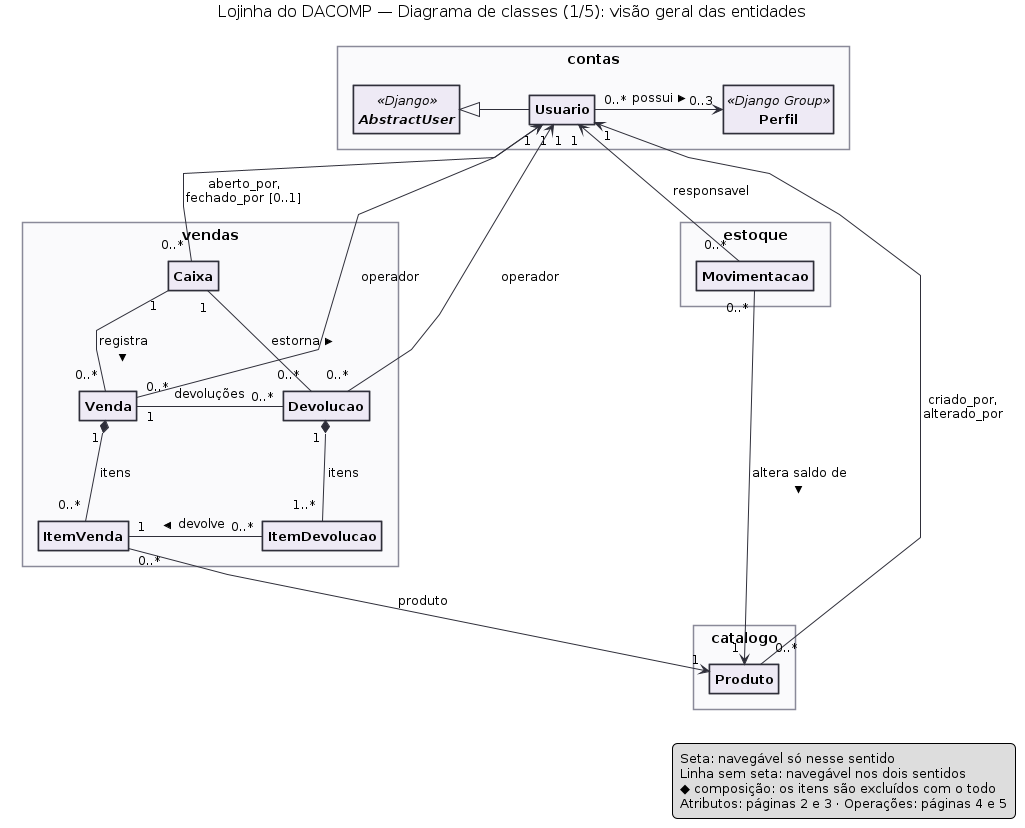
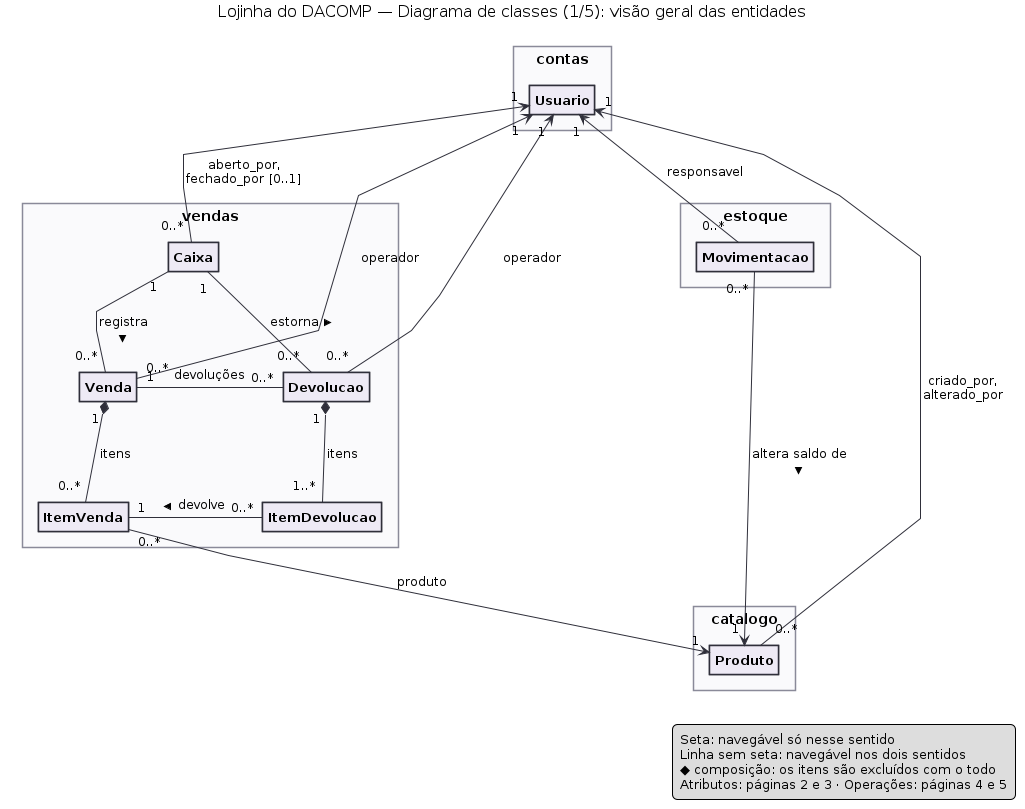
Retira as classes do Django do diagrama de classes
AbstractUser e Group (Perfil) saem dos diagramas. Os atributos herdados
que o sistema usa passam para a classe Usuario, e os perfis viram o
atributo perfis [0..3]. classes-operacoes.md explica a omissão.

Claude-Session: https://claude.ai/code/session_01PfvwMDMALDtyiAoHVTcGmU

diff --git a/docs/diagramas/classes-operacoes.md b/docs/diagramas/classes-operacoes.md
@@ -19,7 +19,11 @@ A notação segue os slides "Diagrama de Classes" da disciplina:
 - atributo: `[visibilidade] nome [multiplicidade] : tipo [= valor inicial] [{propriedades}]`;
 - operação: `[visibilidade] nome (parâmetros) : tipo de retorno`;
 - `/nome` indica atributo derivado; `{frozen}`, valor que não muda depois de criado;
-- sublinhado indica operação ou atributo de classe; itálico, classe abstrata (`AbstractUser`).
+- sublinhado indica operação ou atributo de classe.
+
+As classes do Django que o sistema reaproveita (`AbstractUser`, `Group`) não aparecem nos
+diagramas: os atributos herdados que o sistema usa estão na própria classe `Usuario`, e os
+perfis aparecem como o atributo `perfis`.
 
 Os serviços são módulos Python e aparecem nos diagramas como classes `<<serviço>>` cujas
 operações são operações de classe (sublinhadas):
